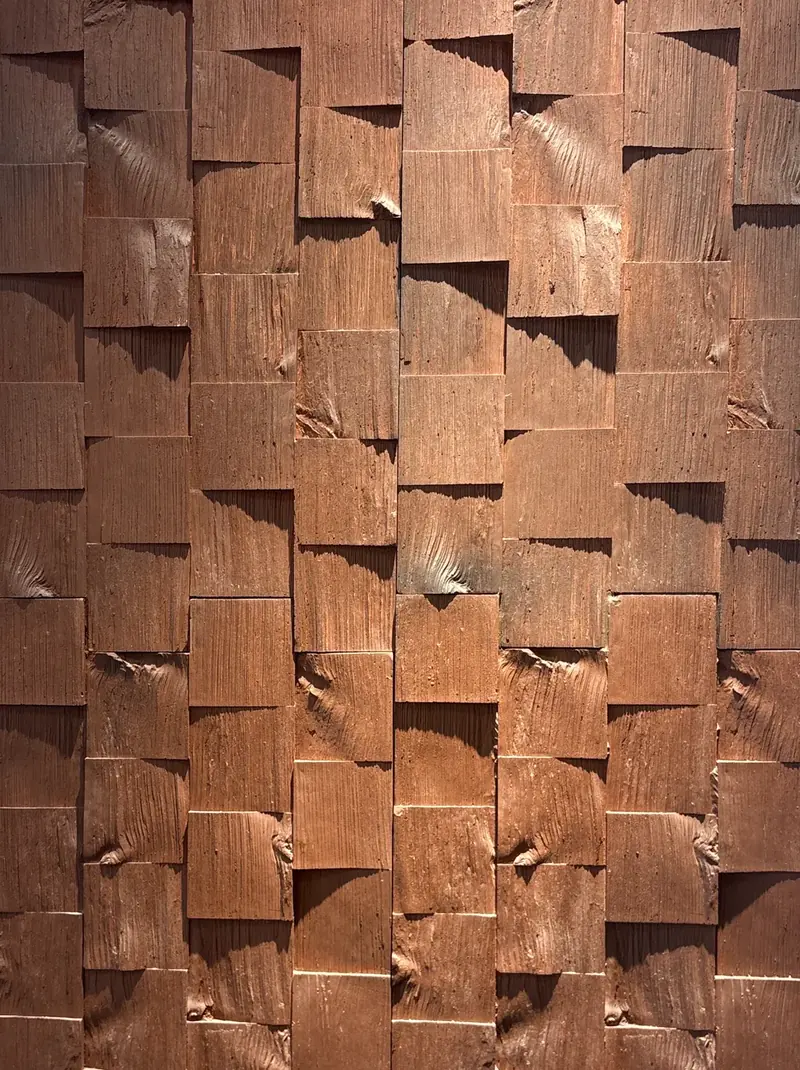
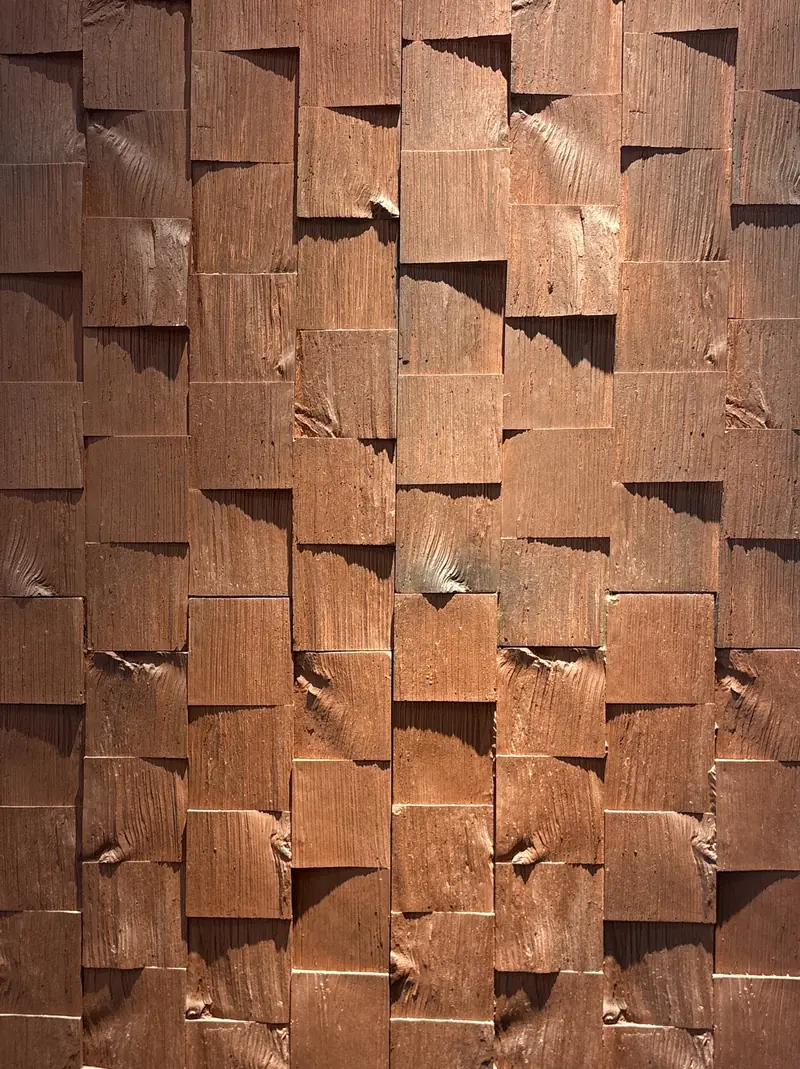
Lot 4b — héros Bois Cubo net (original Drive 3024 px)
- bois-cubo-relief-paysage : 1600 × 879 (au lieu de 1062 px), relief seul.
- bois-cubo-relief-portrait : 1100 × 1469, relief seul.
- srcset et preload mis à jour dans alternative-au-bardage.html.

Claude-Session: https://claude.ai/code/session_01Tsvd8AX9tW4JDioMQx4QYJ

diff --git a/alternative-au-bardage.html b/alternative-au-bardage.html
@@ -9,8 +9,8 @@
 <link rel="preconnect" href="https://fonts.gstatic.com" crossorigin>
 <link href="https://fonts.googleapis.com/css2?family=Bodoni+Moda:ital,opsz,wght@0,6..96,400;0,6..96,500;1,6..96,400&family=Jost:wght@300;400;500&display=swap" rel="stylesheet">
 <link rel="stylesheet" href="css/site.css">
-<link rel="preload" as="image" media="(max-width:699px)" imagesrcset="images/realisations/bois-cubo-relief-portrait-800.webp 800w, images/realisations/bois-cubo-relief-portrait.webp 1062w" imagesizes="100vw" fetchpriority="high">
-<link rel="preload" as="image" media="(min-width:700px)" imagesrcset="images/realisations/bois-cubo-relief-paysage-800.webp 800w, images/realisations/bois-cubo-relief-paysage.webp 1062w" imagesizes="100vw" fetchpriority="high">
+<link rel="preload" as="image" media="(max-width:699px)" imagesrcset="images/realisations/bois-cubo-relief-portrait-800.webp 800w, images/realisations/bois-cubo-relief-portrait.webp 1100w" imagesizes="100vw" fetchpriority="high">
+<link rel="preload" as="image" media="(min-width:700px)" imagesrcset="images/realisations/bois-cubo-relief-paysage-800.webp 800w, images/realisations/bois-cubo-relief-paysage.webp 1600w" imagesizes="100vw" fetchpriority="high">
 <style>
   .fx-hero{position:relative;min-height:min(88vh,860px);display:flex;align-items:flex-end;overflow:hidden;background:var(--basalte);color:#F5F2EC}
   .fx-hero img{position:absolute;inset:0;width:100%;height:100%;object-fit:cover}
@@ -257,8 +257,8 @@ src="https://www.facebook.com/tr?id=1750427786411371&ev=PageView&noscript=1"/></
 <main>
 <section class="fx-hero">
   <picture>
-    <source media="(max-width:699px)" srcset="images/realisations/bois-cubo-relief-portrait-800.webp 800w, images/realisations/bois-cubo-relief-portrait.webp 1062w" sizes="100vw">
-    <img src="images/realisations/bois-cubo-relief-paysage-800.webp" srcset="images/realisations/bois-cubo-relief-paysage-800.webp 800w, images/realisations/bois-cubo-relief-paysage.webp 1062w" sizes="100vw" alt="Relief Bois Cubo peint marron : des blocs de bois en damier, veines et nœuds compris, sans une seule lame de bardage" fetchpriority="high">
+    <source media="(max-width:699px)" srcset="images/realisations/bois-cubo-relief-portrait-800.webp 800w, images/realisations/bois-cubo-relief-portrait.webp 1100w" sizes="100vw">
+    <img src="images/realisations/bois-cubo-relief-paysage-800.webp" srcset="images/realisations/bois-cubo-relief-paysage-800.webp 800w, images/realisations/bois-cubo-relief-paysage.webp 1600w" sizes="100vw" alt="Relief Bois Cubo peint marron : des blocs de bois en damier, veines et nœuds compris, sans une seule lame de bardage" fetchpriority="high">
   </picture>
   <div class="wrap">
     <div class="eyebrow">Alternative au bardage · Le Celestone™</div>
